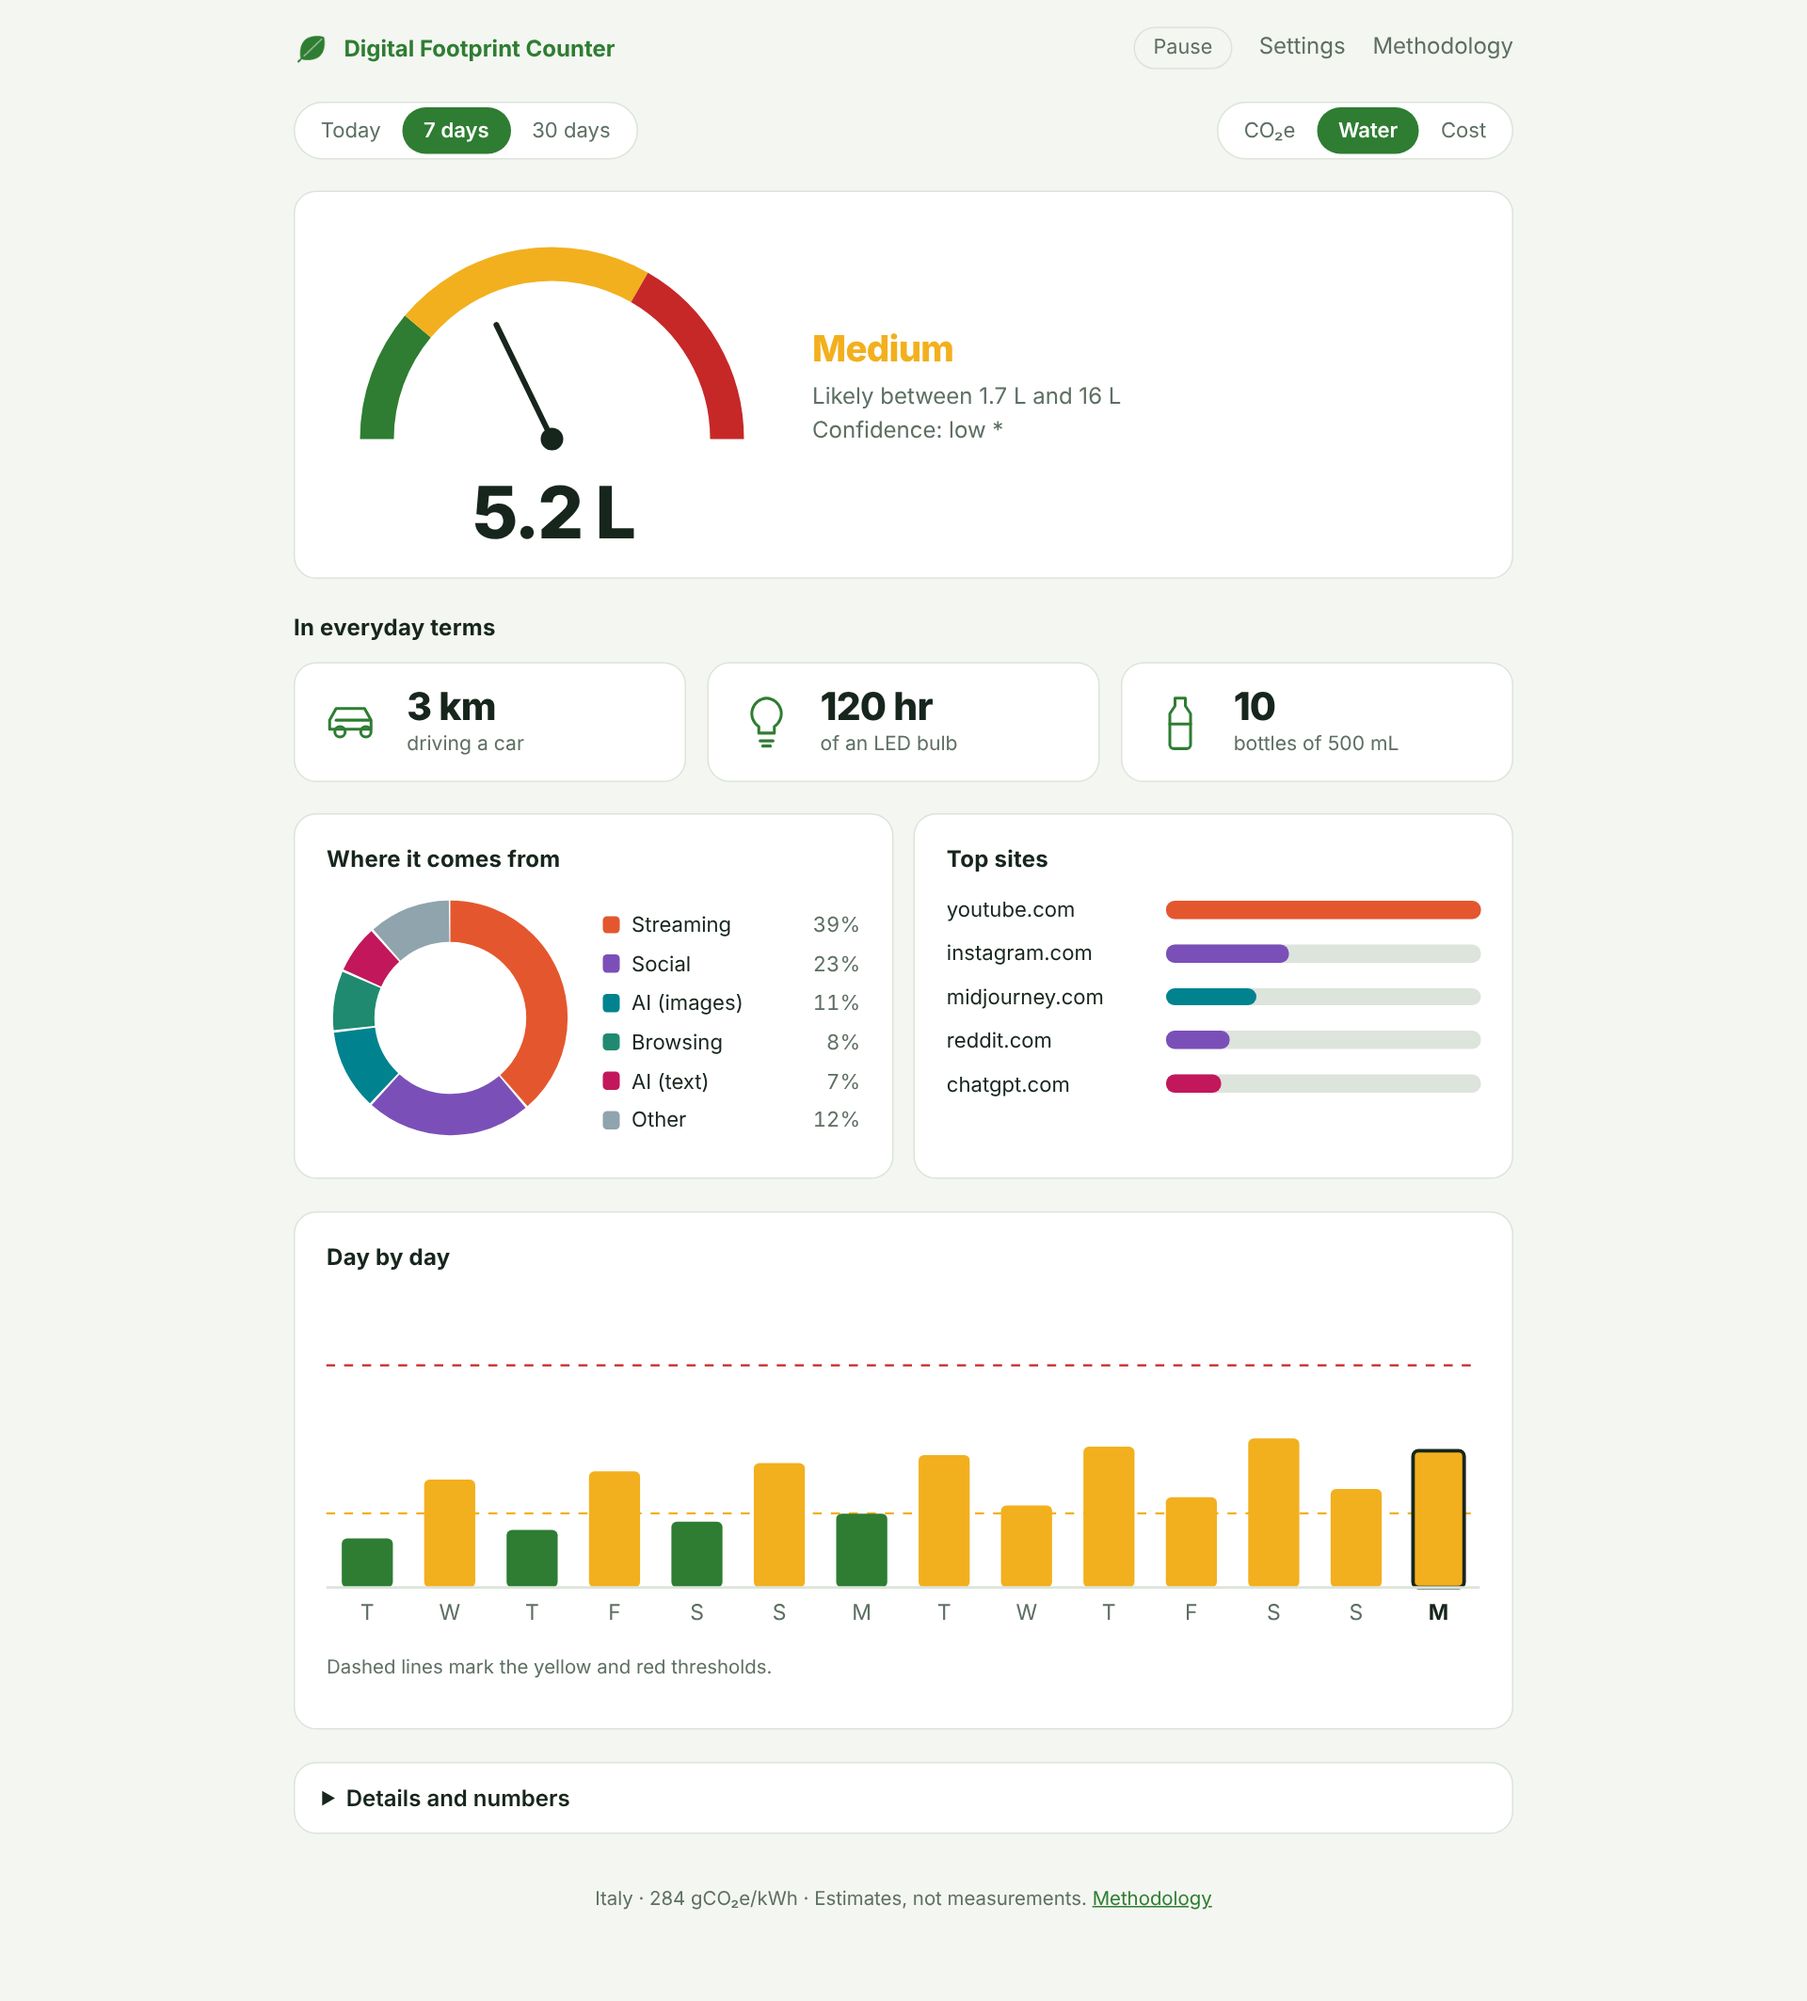
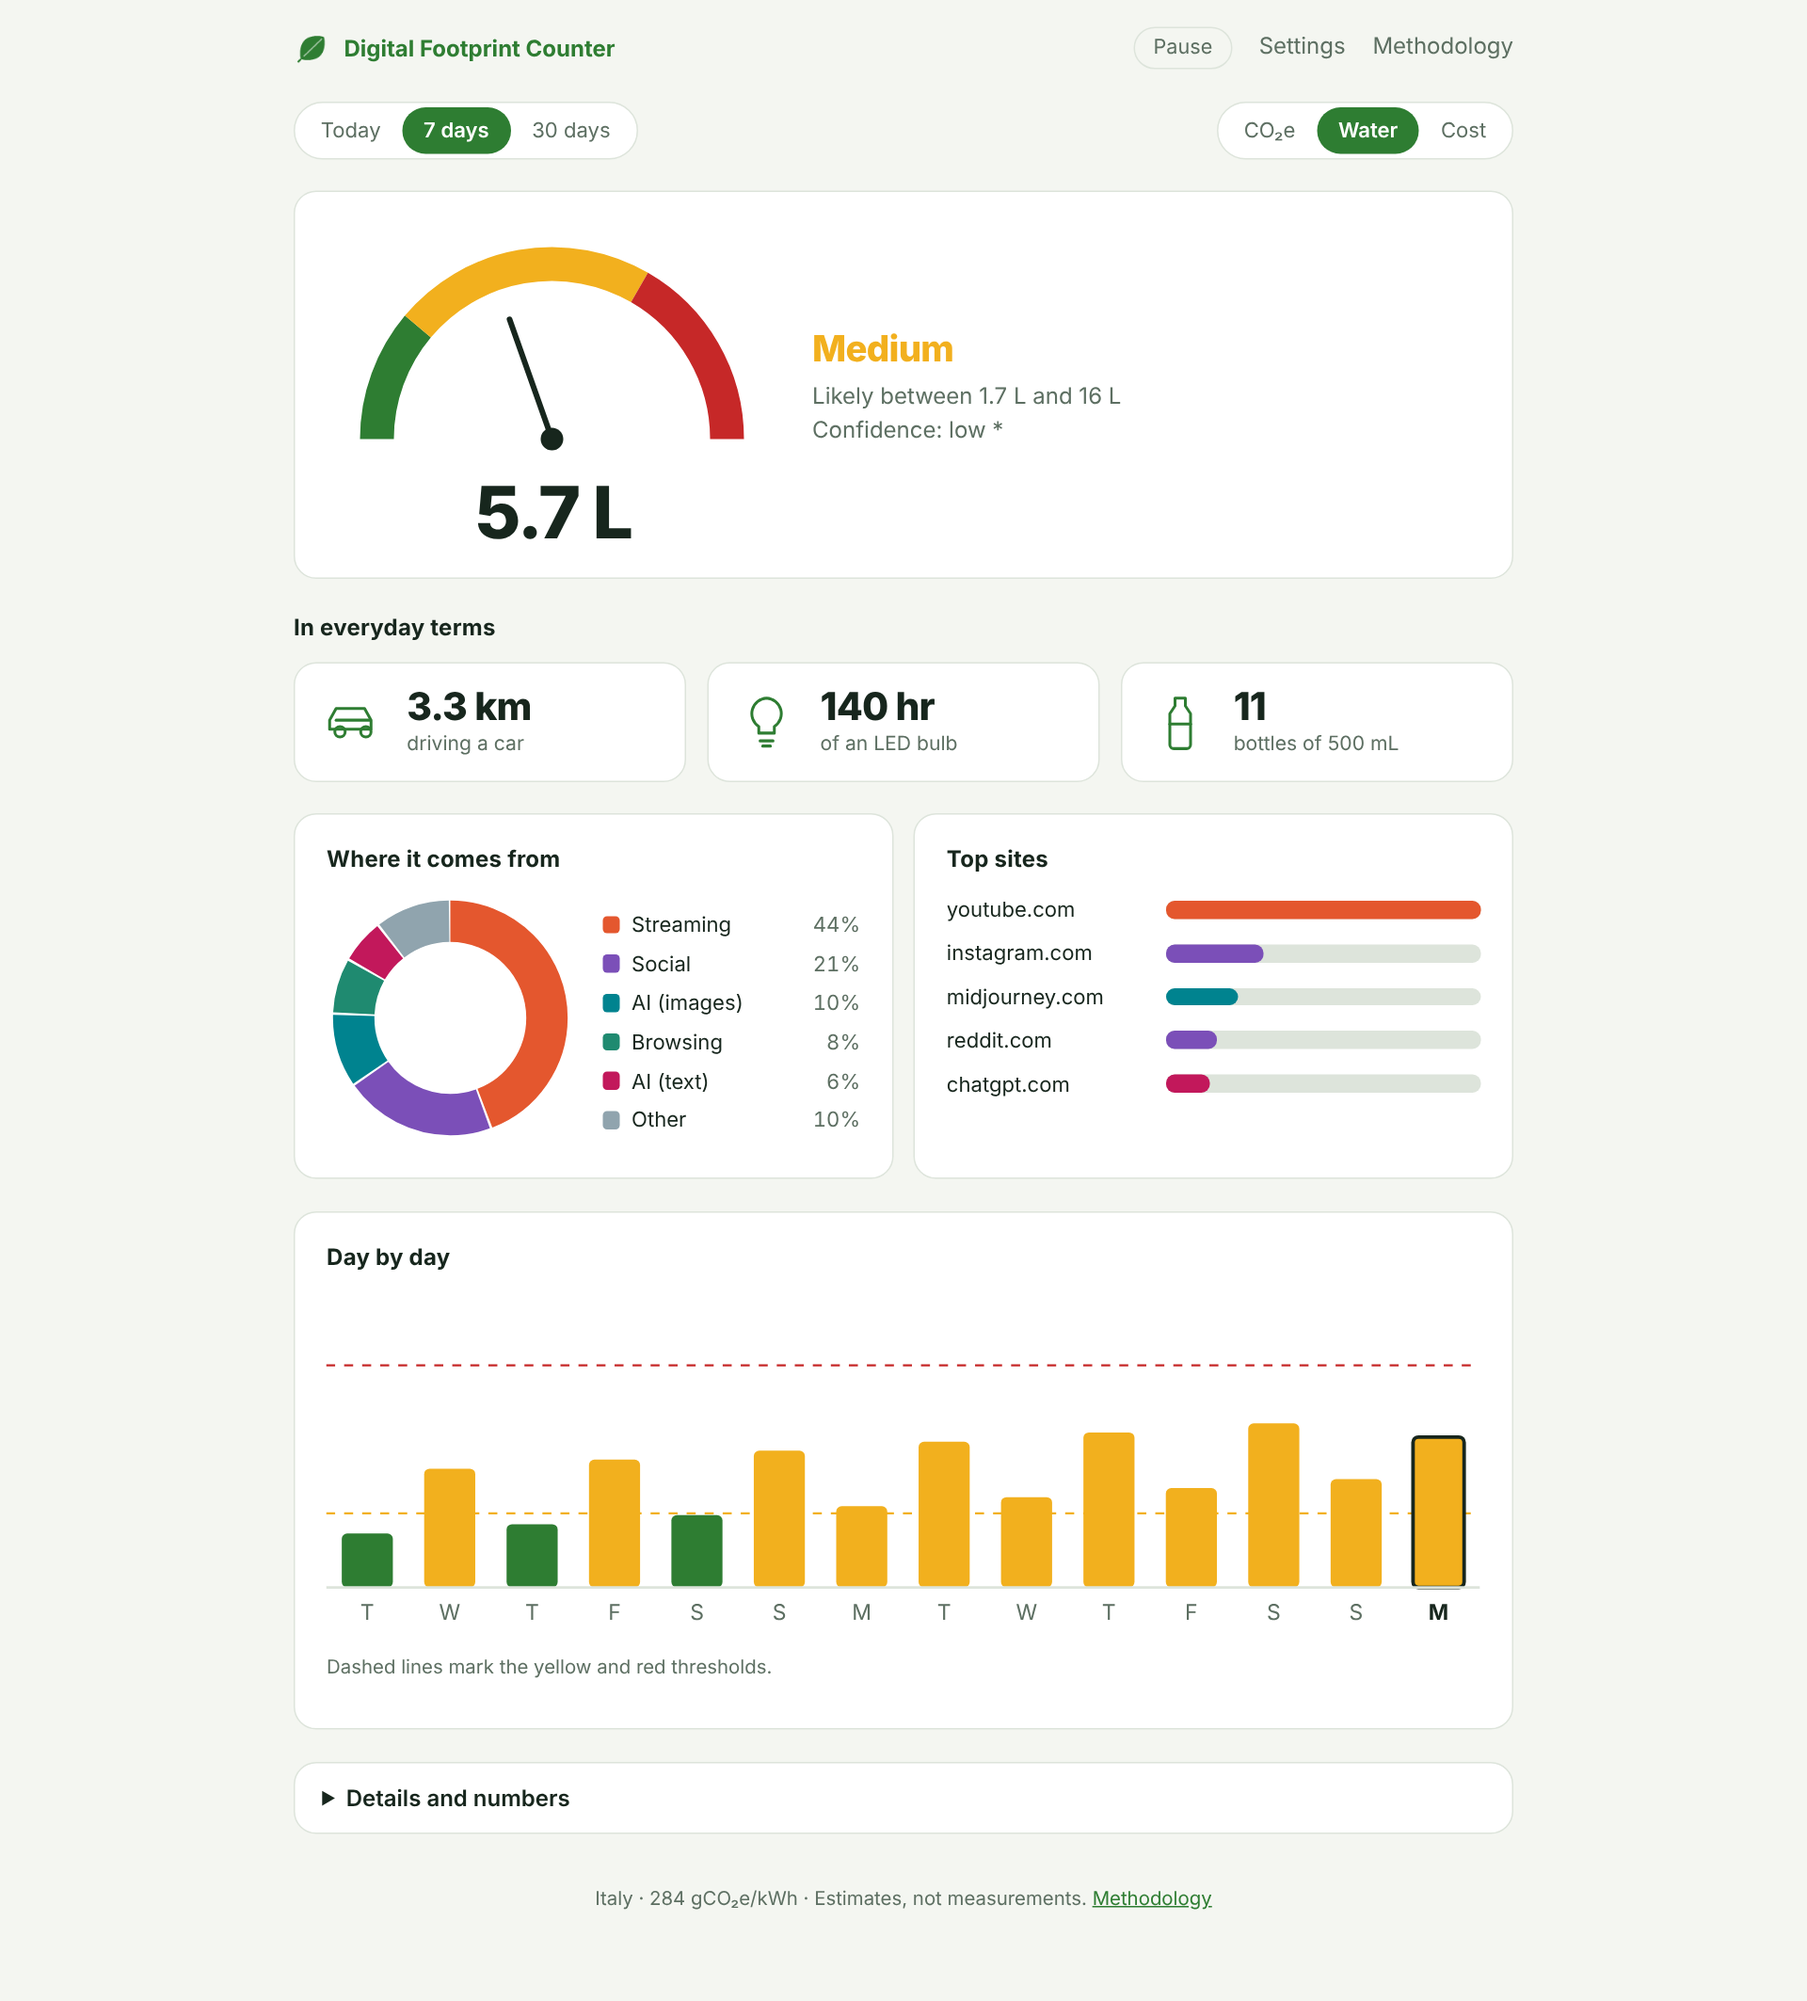
Streaming: riferimento con media realistica per eccesso, 4K rilevato dalla velocità dei dati già osservati (nessun accesso ai dati), più servizi nel catalogo
Claude-Session: https://claude.ai/code/session_01FMdp5T99h9ndXsWj19GVp4

diff --git a/site/index.html b/site/index.html
@@ -138,18 +138,18 @@ footer { border-top: 1px solid var(--line); padding-block: 2rem 3rem; color: var
 
   <section id="number">
     <p class="eyebrow">One number, explained</p>
-    <h2>How 48 minutes of video becomes 20 g of CO₂e</h2>
+    <h2>How 48 minutes of video becomes 25 g of CO₂e</h2>
     <p>An example from the demo dashboard: a laptop, the Italian profile. Every line maps to a row in the Methodology page.</p>
     <div class="receipt" role="group" aria-label="Worked calculation">
       <div class="row"><span>Device: 0.8 h × 12 W (laptop)</span><span>10 Wh</span></div>
-      <div class="row"><span>Network + data center: 0.8 h × 77 Wh/h</span><span>62 Wh</span></div>
+      <div class="row"><span>Network + data center: 0.8 h × 100 Wh/h</span><span>80 Wh</span></div>
       <div class="rule"></div>
-      <div class="row total"><span>Energy</span><span>71 Wh</span></div>
-      <div class="row"><span>× 284 gCO₂e/kWh (Italy)</span><span>20 g CO₂e</span></div>
-      <div class="row"><span>Water: data center 30 Wh × 0.30 + all 71 Wh × 4.5 L/kWh</span><span>330 mL</span></div>
-      <div class="row"><span>× 0.311 €/kWh</span><span>€0.022</span></div>
+      <div class="row total"><span>Energy</span><span>90 Wh</span></div>
+      <div class="row"><span>× 284 gCO₂e/kWh (Italy)</span><span>25 g CO₂e</span></div>
+      <div class="row"><span>Water: data center 38 Wh × 0.30 + all 90 Wh × 4.5 L/kWh</span><span>420 mL</span></div>
+      <div class="row"><span>× 0.311 €/kWh</span><span>€0.028</span></div>
       <div class="rule"></div>
-      <div class="row dim"><span>Shown with its min–max range and a Medium reliability</span><span></span></div>
+      <div class="row dim"><span>Shown with its min–max range and a Medium reliability. The streaming reference is a realistic average deliberately rounded up.</span><span></span></div>
     </div>
   </section>
 

diff --git a/site/page.html b/site/page.html
@@ -137,18 +137,18 @@ footer { border-top: 1px solid var(--line); padding-block: 2rem 3rem; color: var
 
   <section id="number">
     <p class="eyebrow">One number, explained</p>
-    <h2>How 48 minutes of video becomes 20 g of CO₂e</h2>
+    <h2>How 48 minutes of video becomes 25 g of CO₂e</h2>
     <p>An example from the demo dashboard: a laptop, the Italian profile. Every line maps to a row in the Methodology page.</p>
     <div class="receipt" role="group" aria-label="Worked calculation">
       <div class="row"><span>Device: 0.8 h × 12 W (laptop)</span><span>10 Wh</span></div>
-      <div class="row"><span>Network + data center: 0.8 h × 77 Wh/h</span><span>62 Wh</span></div>
+      <div class="row"><span>Network + data center: 0.8 h × 100 Wh/h</span><span>80 Wh</span></div>
       <div class="rule"></div>
-      <div class="row total"><span>Energy</span><span>71 Wh</span></div>
-      <div class="row"><span>× 284 gCO₂e/kWh (Italy)</span><span>20 g CO₂e</span></div>
-      <div class="row"><span>Water: data center 30 Wh × 0.30 + all 71 Wh × 4.5 L/kWh</span><span>330 mL</span></div>
-      <div class="row"><span>× 0.311 €/kWh</span><span>€0.022</span></div>
+      <div class="row total"><span>Energy</span><span>90 Wh</span></div>
+      <div class="row"><span>× 284 gCO₂e/kWh (Italy)</span><span>25 g CO₂e</span></div>
+      <div class="row"><span>Water: data center 38 Wh × 0.30 + all 90 Wh × 4.5 L/kWh</span><span>420 mL</span></div>
+      <div class="row"><span>× 0.311 €/kWh</span><span>€0.028</span></div>
       <div class="rule"></div>
-      <div class="row dim"><span>Shown with its min–max range and a Medium reliability</span><span></span></div>
+      <div class="row dim"><span>Shown with its min–max range and a Medium reliability. The streaming reference is a realistic average deliberately rounded up.</span><span></span></div>
     </div>
   </section>
 

diff --git a/tests/engine.test.js b/tests/engine.test.js
@@ -19,10 +19,21 @@ test('dispositivo: 1 ora = potenza del tipo scelto; streaming usa il tempo, non 
   near(estimateEntry({ n: 1, b: 0, ms: 3.6e6 }, 'browsing', c).wh.mid, P);
   near(estimateEntry({ n: 1, b: 0, ms: 3.6e6 }, 'browsing', c, 'desktop').wh.mid, E.device_power_w.types.desktop.mid);
   near(estimateEntry({ n: 1, b: 0, ms: 3.6e6 }, 'browsing', c, 'sconosciuto').wh.mid, P); // ripiego sul predefinito
-  const s = estimateEntry({ n: 1, b: 5e9, ms: 3.6e6 }, 'streaming', c);
+  const s = estimateEntry({ n: 1, b: 2e9, ms: 3.6e6 }, 'streaming', c); // 2 GB/h: sotto la soglia 4K
   near(s.wh.mid, P + E.streaming_kwh_per_hour.value.mid * 1000);
   near(s.dc_wh.mid, E.streaming_kwh_per_hour.value.mid * 1000 * E.dc_share_of_remote.value.mid);
   assert.deepEqual(devicePower(c, 'phone'), E.device_power_w.types.phone);
+});
+
+test('streaming: media realistica per eccesso; solo i flussi da 4K alzano il riferimento', () => {
+  const ref = E.streaming_kwh_per_hour.value.mid * 1000;
+  const at = (gbPerHour, ms = 3.6e6) => estimateEntry({ n: 1, b: gbPerHour * 1e9 * (ms / 3.6e6), ms }, 'streaming', c).wh.mid - P * (ms / 3.6e6);
+  near(at(0), ref);                  // byte non noti: riferimento
+  near(at(0.3), ref);                // flusso basso (o byte sottostimati): non scende sotto il riferimento
+  near(at(3), ref);                  // HD
+  near(at(7), ref * E.streaming_uhd_factor.value.mid); // 4K
+  near(at(7, 1.8e6), (ref / 2) * E.streaming_uhd_factor.value.mid); // mezz'ora a velocità da 4K
+  assert.ok(E.streaming_kwh_per_hour.value.mid > 0.08, 'il riferimento deve stare sopra la media realistica (circa 0,08 kWh/h)');
 });
 
 test('AI testuale: 1 ora = dispositivo + prompt/h x Wh per prompt (tutta energia da data center)', () => {

diff --git a/src/engine.js b/src/engine.js
@@ -28,7 +28,11 @@ export function estimateEntry(entry, category, c, device) {
     let net = 0, dc = 0;
     switch (cat.model) {
       case 'streaming': {
-        const remote = hours * e.streaming_kwh_per_hour.value[k] * 1000;
+        // Riferimento: media realistica con stima per eccesso. Solo i flussi osservati a velocità da 4K
+        // lo alzano; una velocità bassa non lo riduce (i byte sono spesso sottostimati).
+        const rate = hours > 0 ? gb / hours : 0;
+        const factor = rate >= e.streaming_uhd_gb_per_hour.value[k] ? e.streaming_uhd_factor.value[k] : 1;
+        const remote = hours * e.streaming_kwh_per_hour.value[k] * 1000 * factor;
         dc = remote * e.dc_share_of_remote.value[k];
         net = remote - dc;
         break;

diff --git a/docs/PRECISION_MODES.md b/docs/PRECISION_MODES.md
@@ -14,7 +14,7 @@ Obiettivo: stime più precise **solo se l'utente lo sceglie**, senza chiedere pi
 |---|---|---|---|---|---|
 | **0 Base** (oggi) | Stima da dominio, byte dichiarati, tempo | `webRequest` in sola lettura | accesso ai siti + `webRequest` | Basso: solo dominio e conteggi | Sempre |
 | **1 Dati più completi** | Profilo del dispositivo (fatto). Byte inviati e andamento orario della rete elettrica: **non realizzabili ora** | Scelta manuale portatile/desktop/telefono. I browser non espongono la dimensione delle richieste nelle intestazioni: servirebbe leggere il corpo (`requestBody`), che non facciamo. Mancano i dati orari affidabili per le curve | Nessuno nuovo | Molto basso | Fatto per il dispositivo; il resto si riprende se emergono dati o API adatte |
-| **2 Streaming preciso** | Risoluzione reale del video → energia per ora molto più accurata | Script minimo su siti scelti (YouTube, Netflix, Twitch…) che legge solo altezza del video, riproduzione/pausa | Permesso di sito **per sito**, opzionale | Medio-basso: non legge titoli né URL | Sì, opt-in per sito |
+| **2 Streaming preciso** (fatto, senza accesso ai dati) | Streaming più realistico, con stima per eccesso | Nessuno script nelle pagine e nessun permesso: si usano i byte e il tempo già osservati. Riferimento = media realistica arrotondata per eccesso; i flussi osservati a velocità da 4K (oltre 4 GB/h) lo alzano di 1,5 volte; una velocità bassa non lo riduce | Nessuno | Nessun rischio nuovo | Fatto. La lettura della risoluzione reale con uno script per sito resta scartata per privacy |
 | **3 AI per servizio** (fatto per il testo) | Sostituisce l'ipotesi "messaggi all'ora" con conteggi reali dei messaggi inviati | Riconosce l'indirizzo della richiesta (metodo, dominio, percorso) e incrementa un contatore; il corpo non viene mai letto | Già coperto dal livello 0; in modalità Light, per sito | Medio: rivela quanto usi l'AI, in locale | Sì, opt-in per servizio. **Attivo**: ChatGPT, Claude, Gemini, Perplexity, DeepSeek (indirizzi da verificare con traffico reale); immagini e video non contati perché mancano i coefficienti |
 | **4 Carico del dispositivo** | Potenza reale al posto dell'ipotesi 9–50 W | Un campione al minuto del carico CPU | `system.cpu` opzionale (solo Chrome/Edge) | Medio-basso: non identifica contenuti | Facoltativo avanzato |
 
@@ -47,3 +47,10 @@ Ogni livello deve arrivare con: testo di consenso, voce nella Metodologia, test 
 - Il motore usa i conteggi per il tempo coperto e l'ipotesi di messaggi all'ora per il resto; con il tempo quasi tutto coperto e almeno un messaggio visto l'affidabilità sale a "media".
 - "Elimina i conteggi AI" toglie solo questi due numeri.
 - **Limite**: gli indirizzi dei servizi cambiano. Se un adattatore smette di funzionare il conteggio resta a zero: in quel caso il motore **non** si fida della copertura (un falso zero sarebbe peggio) e torna all'ipotesi dei messaggi all'ora. Gli indirizzi vanno comunque verificati con traffico reale prima della pubblicazione e tenuti aggiornati (`data/ai_adapters.json`).
+
+## Livello 2: come funziona oggi (senza accesso ai dati)
+- **Nessun permesso e nessuno script nelle pagine.** Si usano solo i byte e il tempo attivo già raccolti.
+- **Riferimento**: energia di rete + data center per ora di streaming = **0,10 kWh/h**. La media realistica è circa 0,077–0,08 (IEA 2019; valore centrale HD della ricerca): il riferimento è alzato di circa il 25% di proposito, per errare per eccesso. Intervallo 0,04–0,24.
+- **4K**: se i byte per ora attiva superano 4 GB/h (Netflix: HD circa 3 GB/h, 4K circa 7 GB/h) il riferimento sale di 1,5 volte.
+- **Mai al ribasso**: una velocità bassa non riduce la stima, perché i byte sono spesso sottostimati (server che non dichiarano la dimensione).
+- **Limite**: i valori per risoluzione della ricerca includono lo schermo e non sono usati direttamente; la musica (poche centinaia di MB all'ora) è stimata con lo stesso riferimento e quindi sovrastimata.

diff --git a/docs/RESEARCH_RESULTS.md b/docs/RESEARCH_RESULTS.md
@@ -7,7 +7,7 @@ La ricerca è stata fornita dal proprietario del progetto e **non è stata river
 |---|---|---|
 | Rete + data center | 0,114 kWh/GB, intervallo ×0,5/×2 | Due coefficienti separati: rete 0,059 (0,030–0,100) e data center 0,055 (0,030–0,100), dichiarati come **allocazione**, non come misura (Mytton et al. 2024) |
 | Dispositivo | 20 W unico | **Per tipo**, scelto dall'utente nelle Impostazioni: portatile 12 W (5–25), portatile Apple 7 W (3–15), desktop+monitor 45 W (20–100), tablet 5 W, telefono 2,5 W. Predefinito: portatile. Non si deducono i watt dallo user agent |
-| Streaming | 0,077 kWh/h | Invariato (rete + data center), con la quota di data center (48%) per l'acqua. Gli intervalli per risoluzione non sono usati: includono il dispositivo |
+| Streaming | 0,077 kWh/h | Riferimento **0,10 kWh/h** (media realistica 0,077–0,08 arrotondata per eccesso), ×1,5 se la velocità dei dati indica 4K (oltre 4 GB/h); quota di data center 48% per l'acqua. Gli intervalli per risoluzione della ricerca non sono usati: includono il dispositivo |
 | AI testuale | 0,24 Wh, 10 prompt/h | **0,30 Wh** (0,10–1,00), 30 prompt/h (10–60, ipotesi) |
 | AI immagini | 2,9 Wh (fonte secondaria) | **Non stimata** (come il video): conta solo dispositivo e rete, con asterisco |
 | Acqua | 4 L/kWh sull'energia totale | **Sul sito** (data center, 0,30 L/kWh) + **nella produzione dell'elettricità** (4,52 L/kWh, valore USA usato come sostituto per tutte le regioni). Consumo, mai prelievo |
